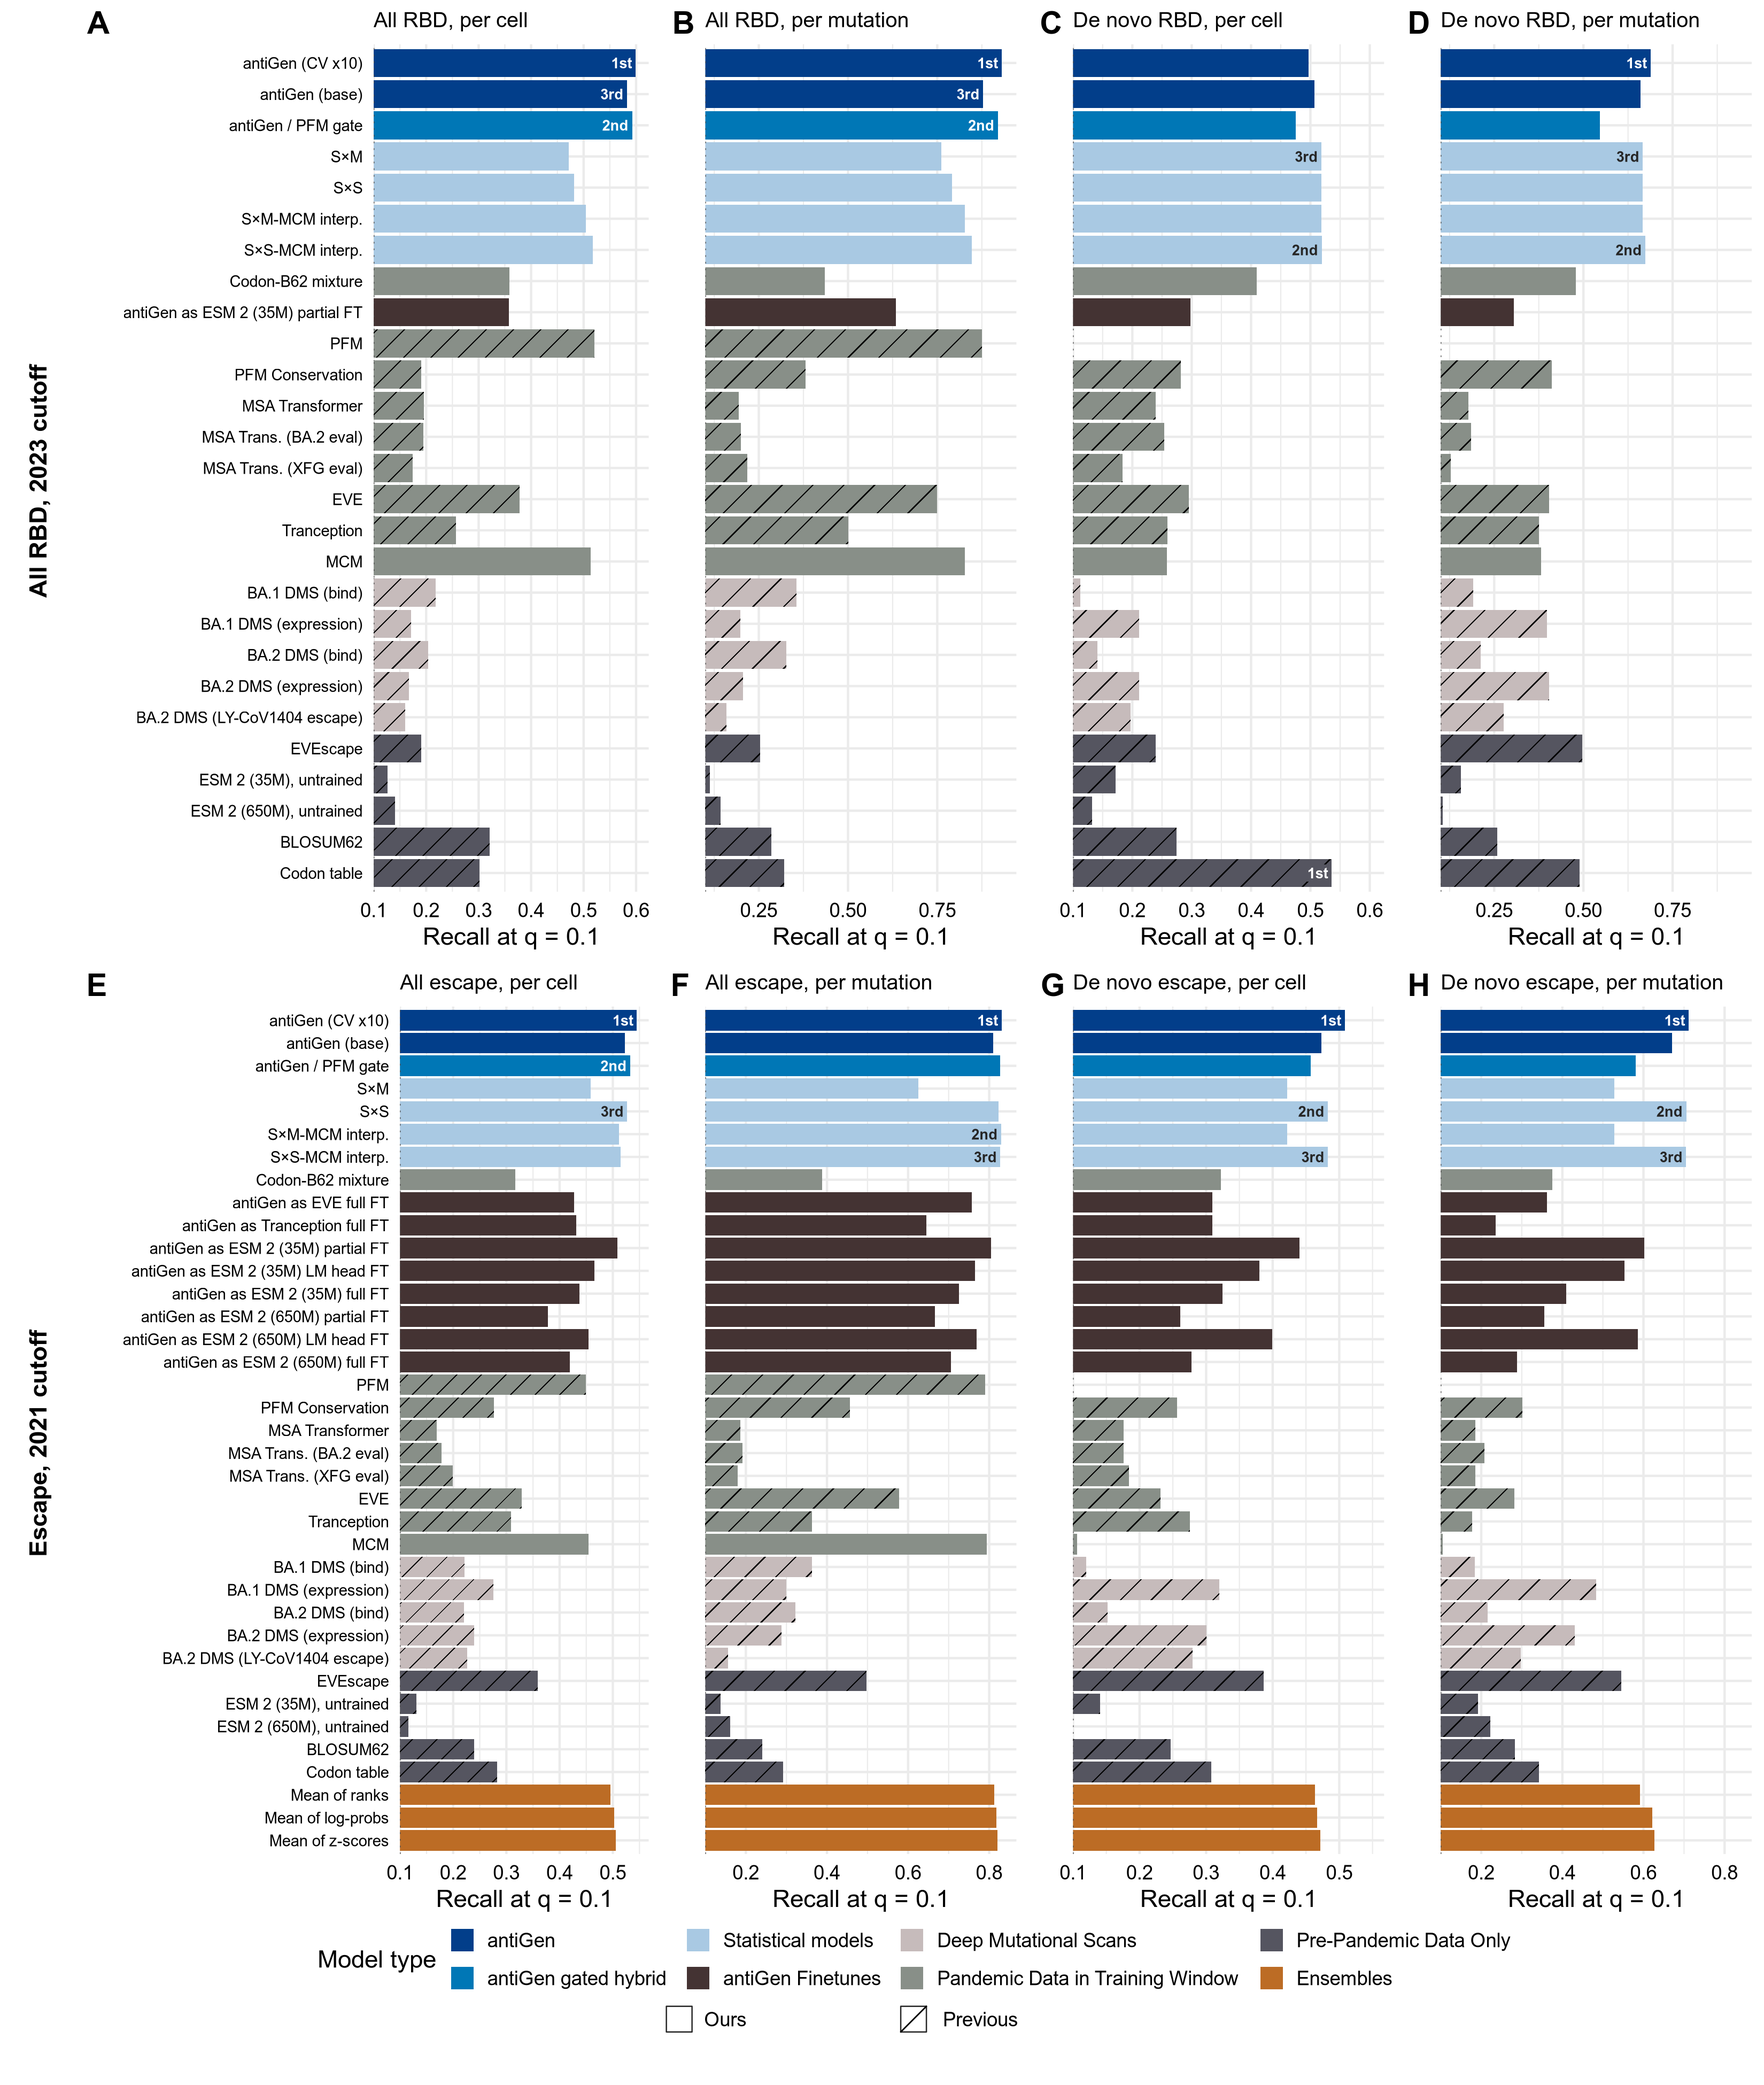
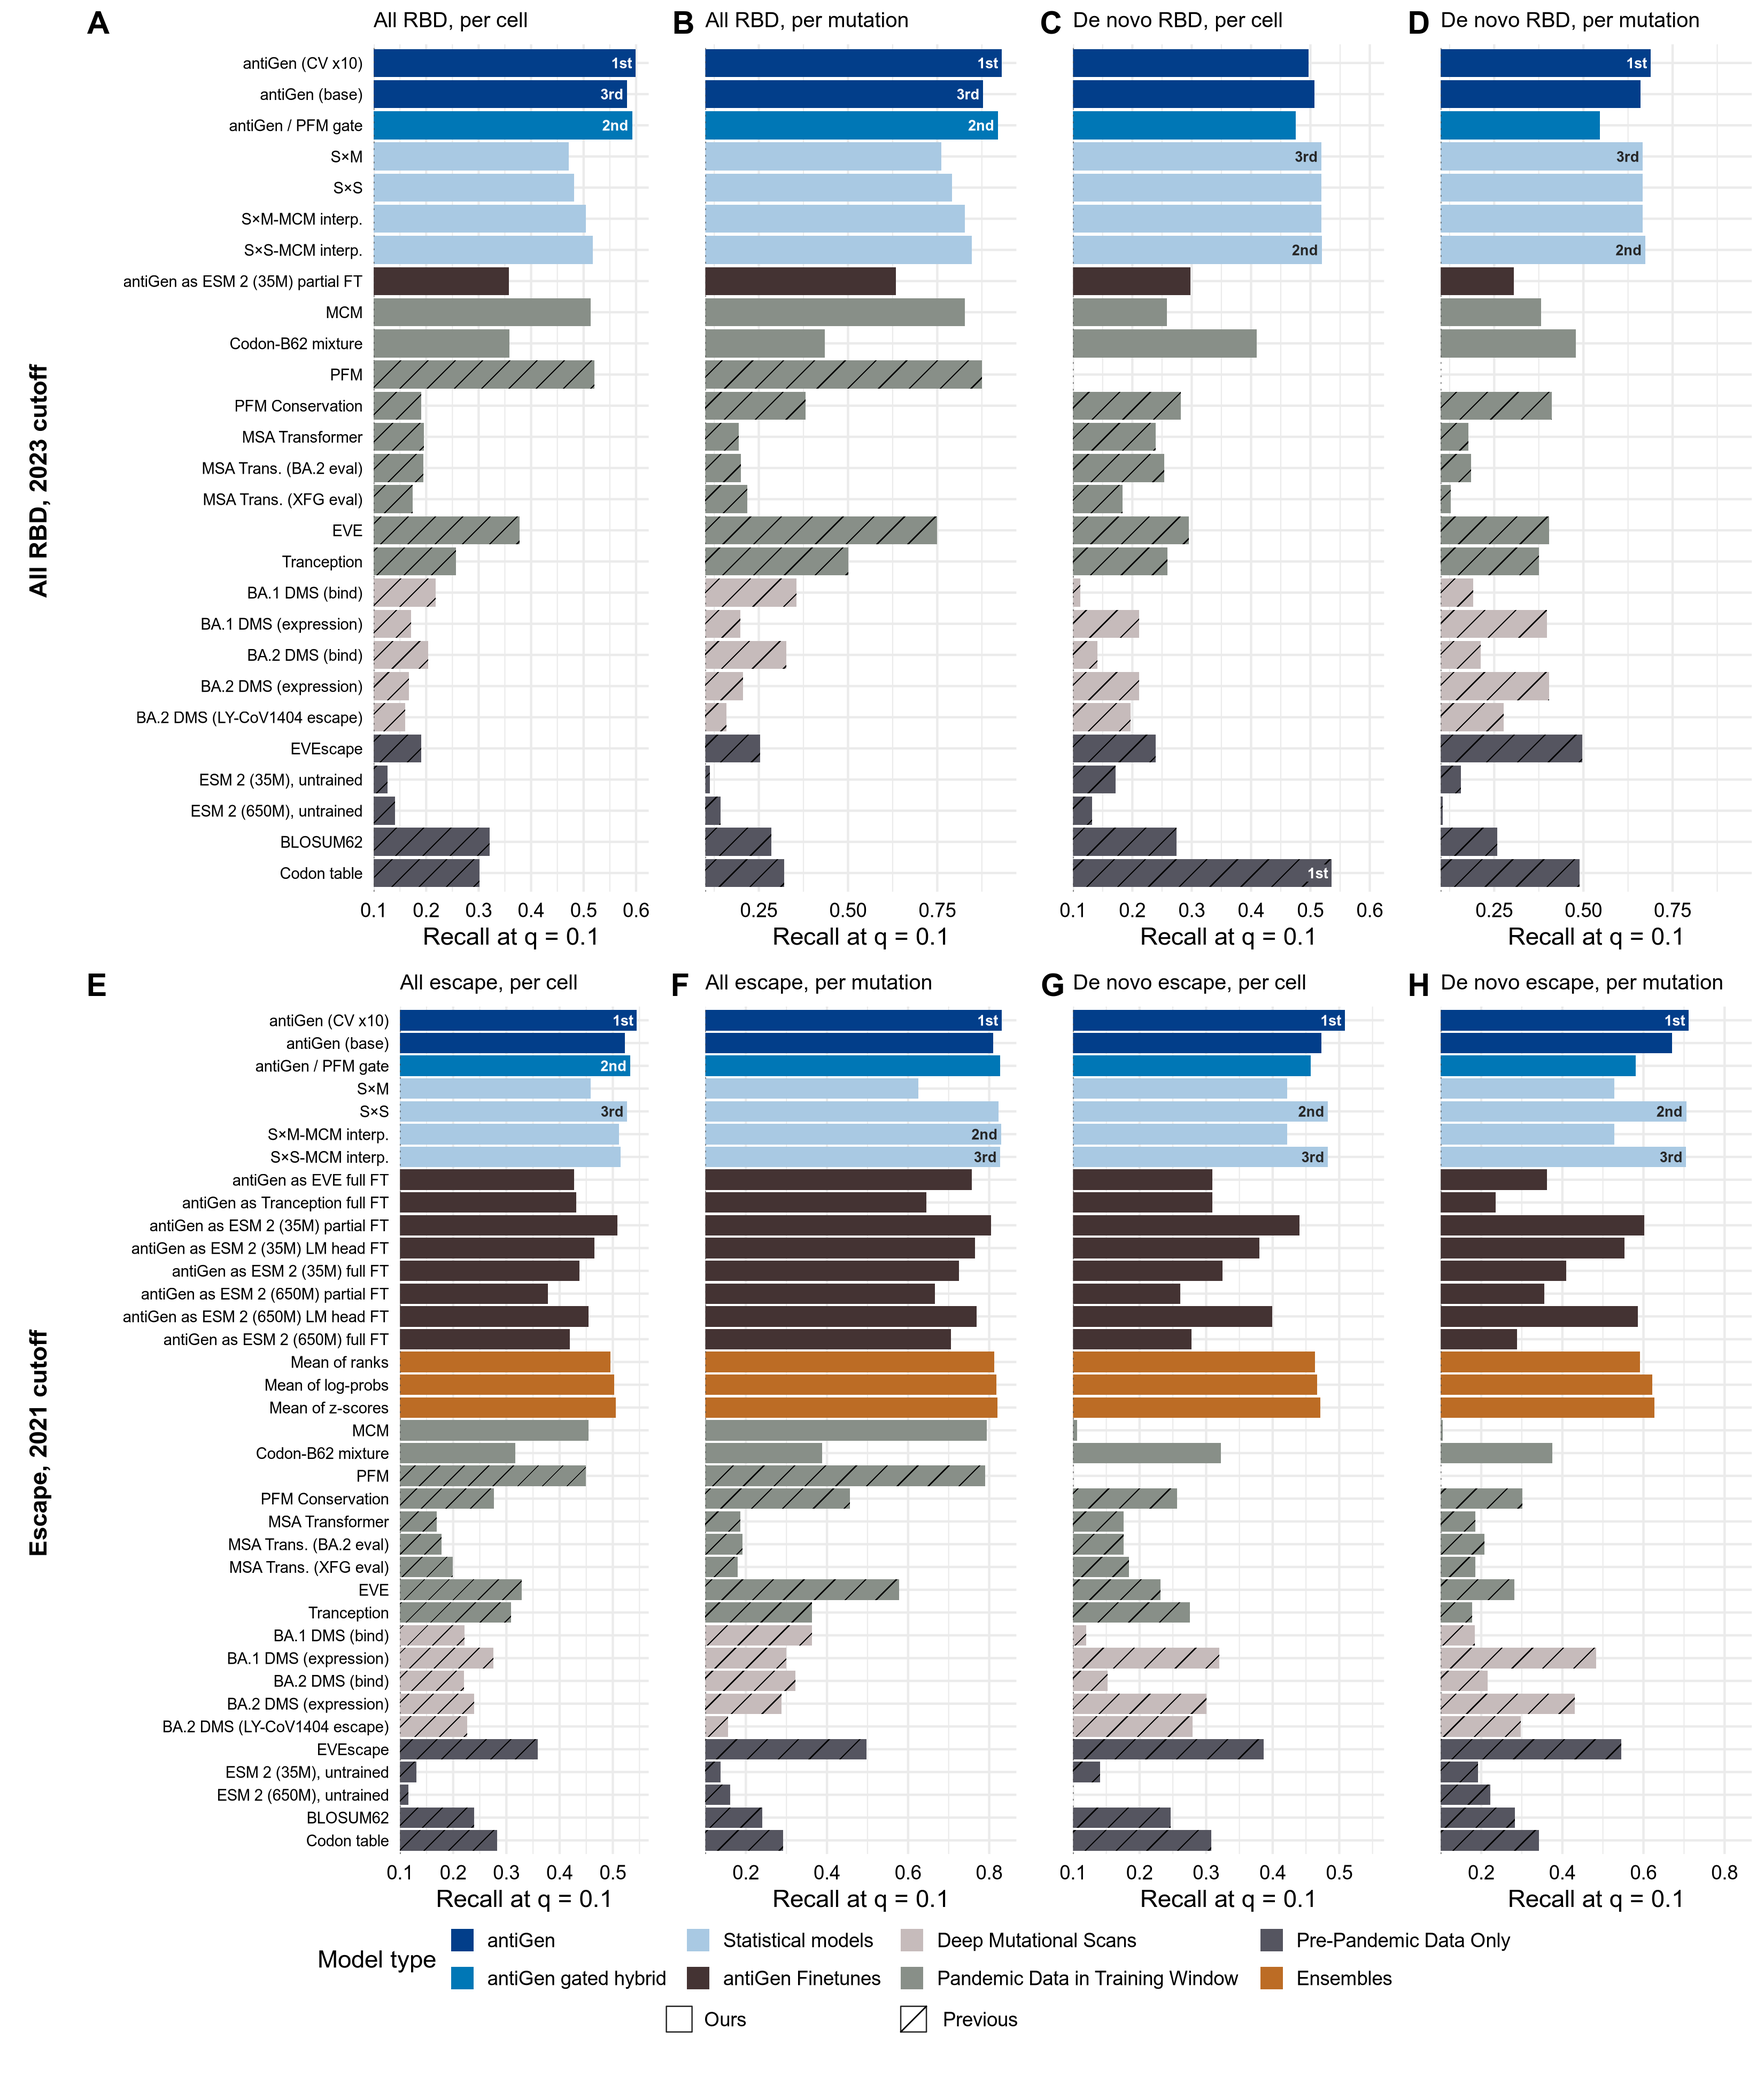
revised2 supp: finetunes, then mean rules, under the blue bars; MCM first green (s144)

diff --git a/experiments/multitree/NOTES.md b/experiments/multitree/NOTES.md
@@ -13083,3 +13083,11 @@ On request, `sc2_results_revised2_supp` draws base antiGen (`simple_d128_n2_lr0.
 beside the CV x10 bar, in the antiGen type and unhatched, labelled "antiGen (base)" as
 on panel M. It is dropped only when `REVISED2_FULL` is unset, so the main figure is
 unchanged. Bar order: CV x10, base, then the gate.
+
+## 144. Full-roster bar order (2026-11-09)
+
+On request, `sc2_results_revised2_supp` orders its bars as: the antiGen bars and the
+statistical models (blue), then the antiGen Finetunes (brown), then the three mean rules
+(orange), then MCM as the first green bar directly above Codon-B62 mixture, then the
+rest as before. Set in `regroup` in `panels_coguk_export.R`; the finetune and mean-rule
+blocks are empty outside the full roster, and the main figure does not draw MCM.
